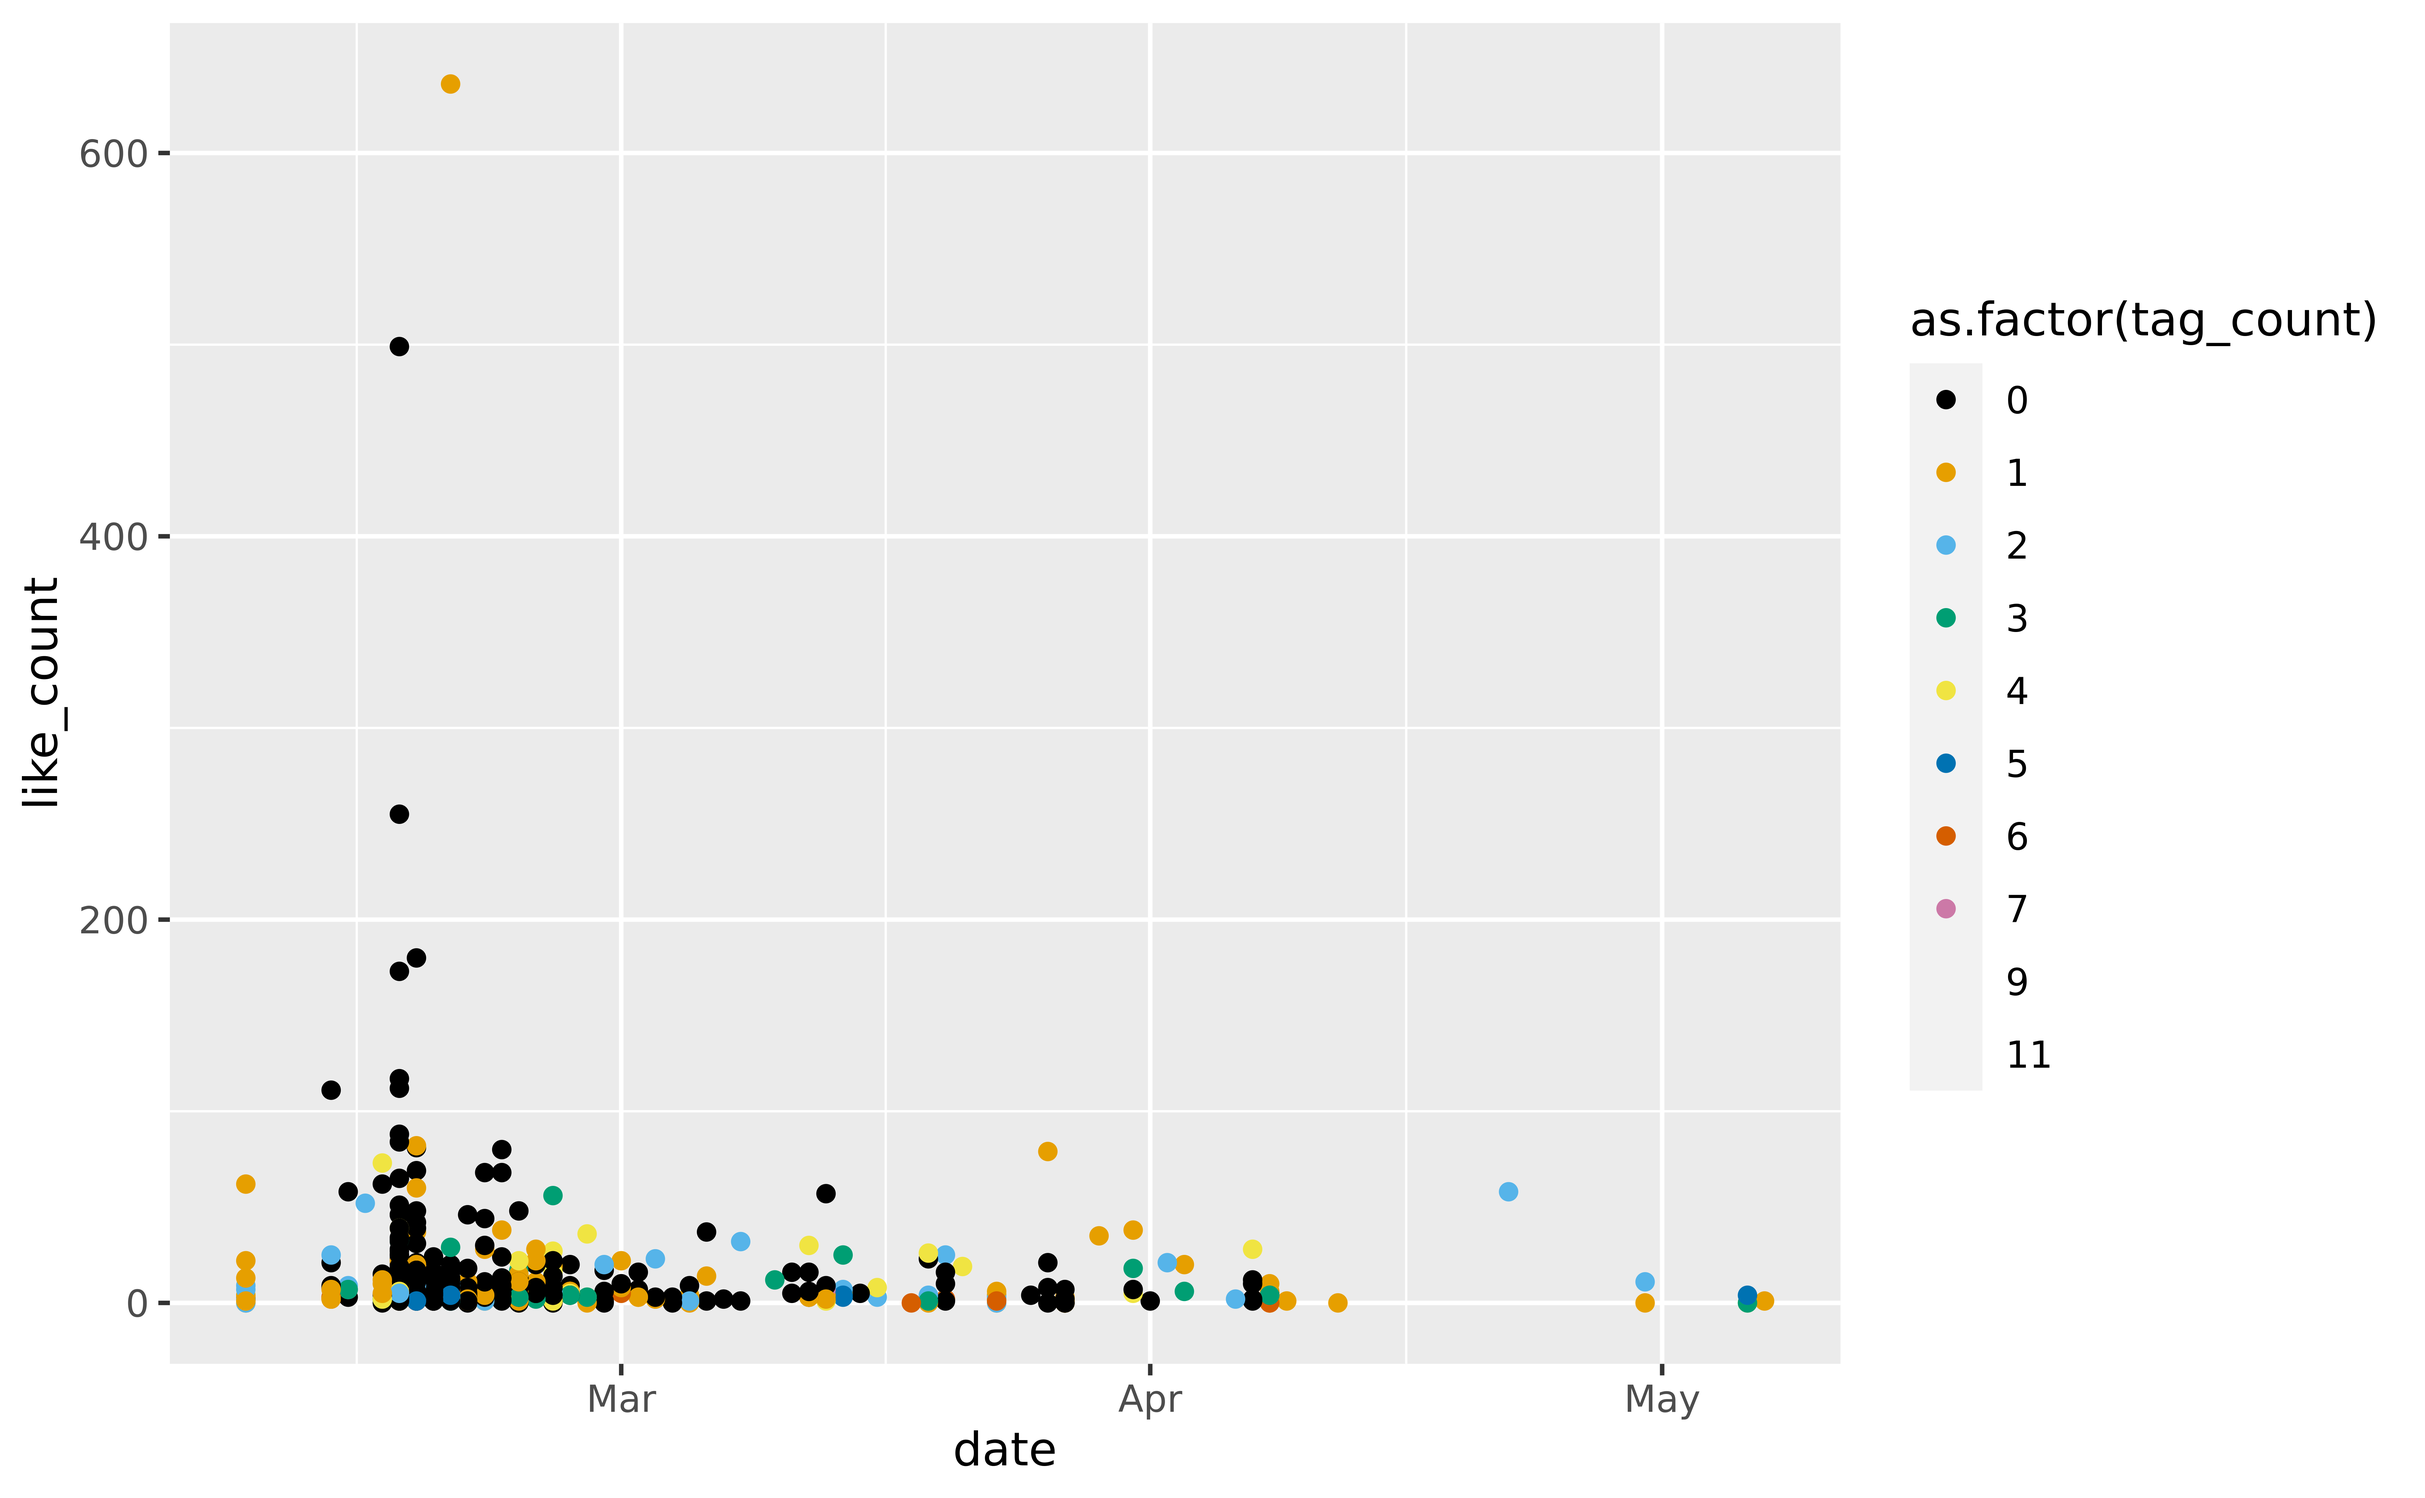
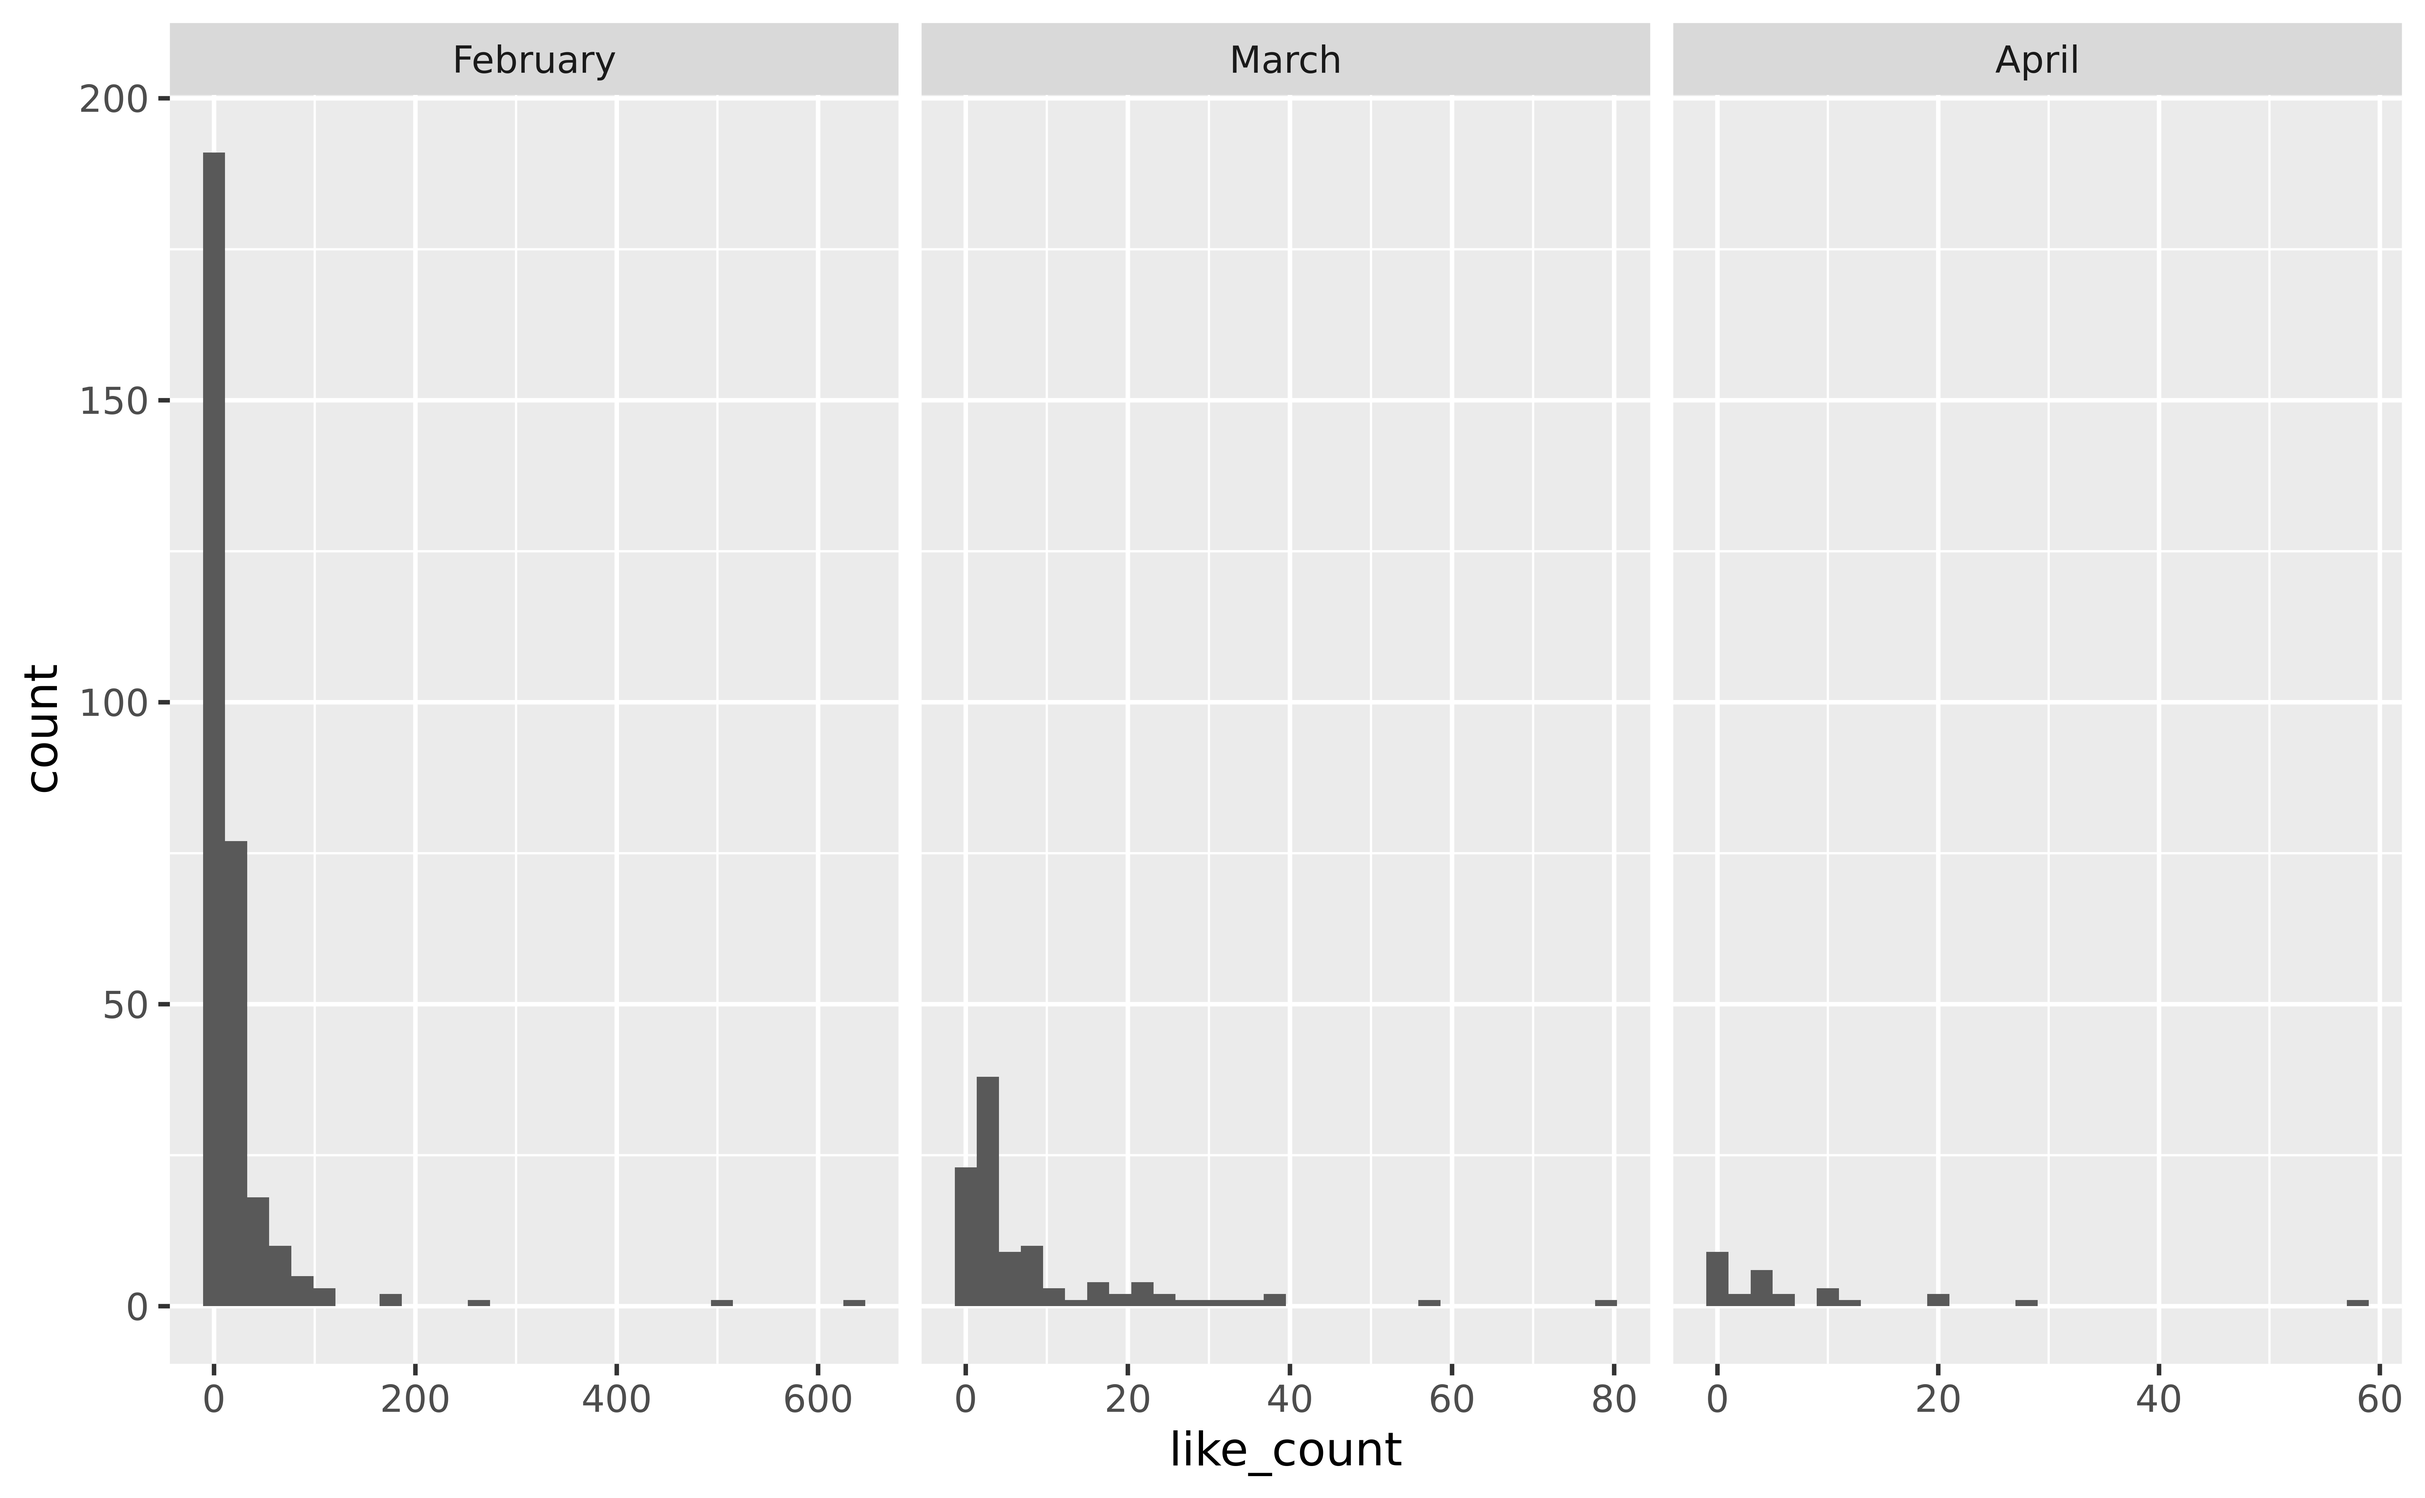
Added better plot for Q2

diff --git a/README.md b/README.md
@@ -60,6 +60,7 @@ library(lubridate)
 
 ``` r
 library(stringr)
+library(ggridges)
 # cleanFun <- function(htmlString) {
 #   return(gsub("<.*?>", "", htmlString))
 # }
@@ -313,32 +314,15 @@ tweets_time <- tweets %>%
            month == 2 ~ "February",
            month == 3 ~ "March",
            month == 4 ~ "April",
-           month == 5 ~ "May"
-         )
+           month == 5 ~ "May"),
+         month_name = fct_reorder(month_name, month)
          )
 ```
 
 ``` r
-# tweets <- tweets %>%
-#   group_by(username) %>%
-#   mutate(average_like_count = mean(like_count))
-# 
-# 
-# tweets_time<- tweets%>%
-#   mutate(time_range=case_when(time<=7~"Time 1", 
-#                               time>7 & time <=15~ "Time 2", 
-#                               time >15~"Time 3"))
-# ggplot(tweets_time, aes(followers, average_like_count))+
-#   geom_point()+
-#   facet_grid(~time_range)+
-#   scale_x_continuous(limits=c(0, 10000))+
-#   scale_y_continuous(limits=c(0, 200))
-#   
-
-# Maybe drop may b/c there's only one observation there, or add labels 
-# about # of tweets per category 
-
-ggplot(tweets_time, aes(x = month_name, y = tag_count, color = month_name)) + 
+tweets_time %>% 
+  filter(month_name != "May") %>% 
+ggplot(aes(x = month_name, y = tag_count, color = month_name)) + 
   geom_boxplot(show.legend = FALSE) +
   scale_color_colorblind() +
   scale_y_continuous(breaks = c(0, 2, 4, 6, 8, 10, 12)) +
@@ -353,34 +337,17 @@ ggplot(tweets_time, aes(x = month_name, y = tag_count, color = month_name)) +
 <img src="README_files/figure-gfm/question-two-plot-one-1.png" width="90%" />
 
 ``` r
-ggplot(tweets_time, aes(x = date, y = like_count, color = as.factor(tag_count))) + 
-  geom_point() +
-  scale_color_colorblind() 
-```
-
-    ## Warning: This manual palette can handle a maximum of 8 values. You have supplied
-    ## 10.
-
-    ## Warning: Removed 3 rows containing missing values (geom_point).
-
-<img src="README_files/figure-gfm/question-two-plot-two-1.png" width="90%" />
-
-``` r
 tweets_time %>% 
   filter(month_name != "May") %>% 
-ggplot(aes(x = followers, y = like_count)) + 
-  facet_wrap(~month_name, scales = "free_x", "free_y") +
-  geom_point() +
+ggplot(aes(x = like_count)) + 
+  facet_wrap(~ month_name, scales = "free_x") +
+  geom_histogram() +
   scale_color_colorblind() 
 ```
 
-    ## Warning: Coercing `nrow` to be an integer.
+    ## `stat_bin()` using `bins = 30`. Pick better value with `binwidth`.
 
-    ## Warning in sanitise_dim(nrow): NAs introduced by coercion
-
-    ## Warning: `nrow` is missing or less than 1 and will be treated as NULL.
-
-<img src="README_files/figure-gfm/unnamed-chunk-1-1.png" width="90%" />
+<img src="README_files/figure-gfm/question-two-plot-two-1.png" width="90%" />
 \#\#\# Discussion
 
 (1-3 paragraphs) In the Discussion section, interpret the results of
